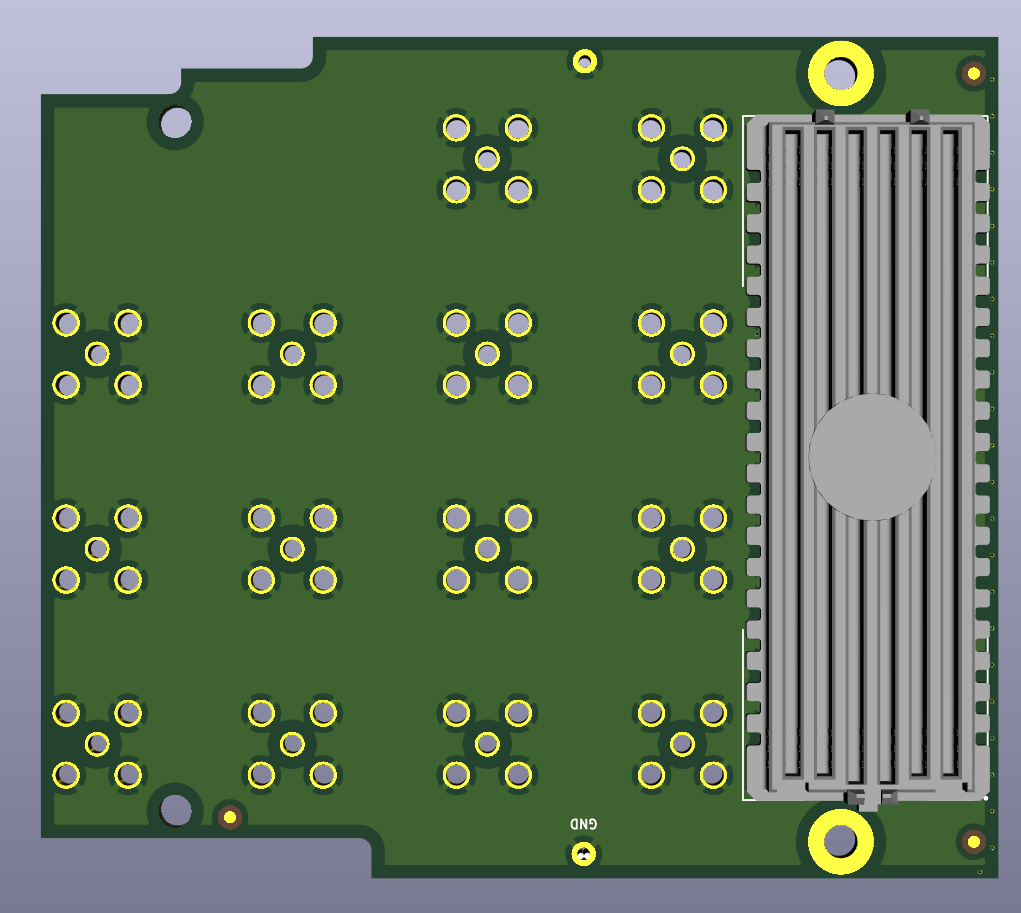
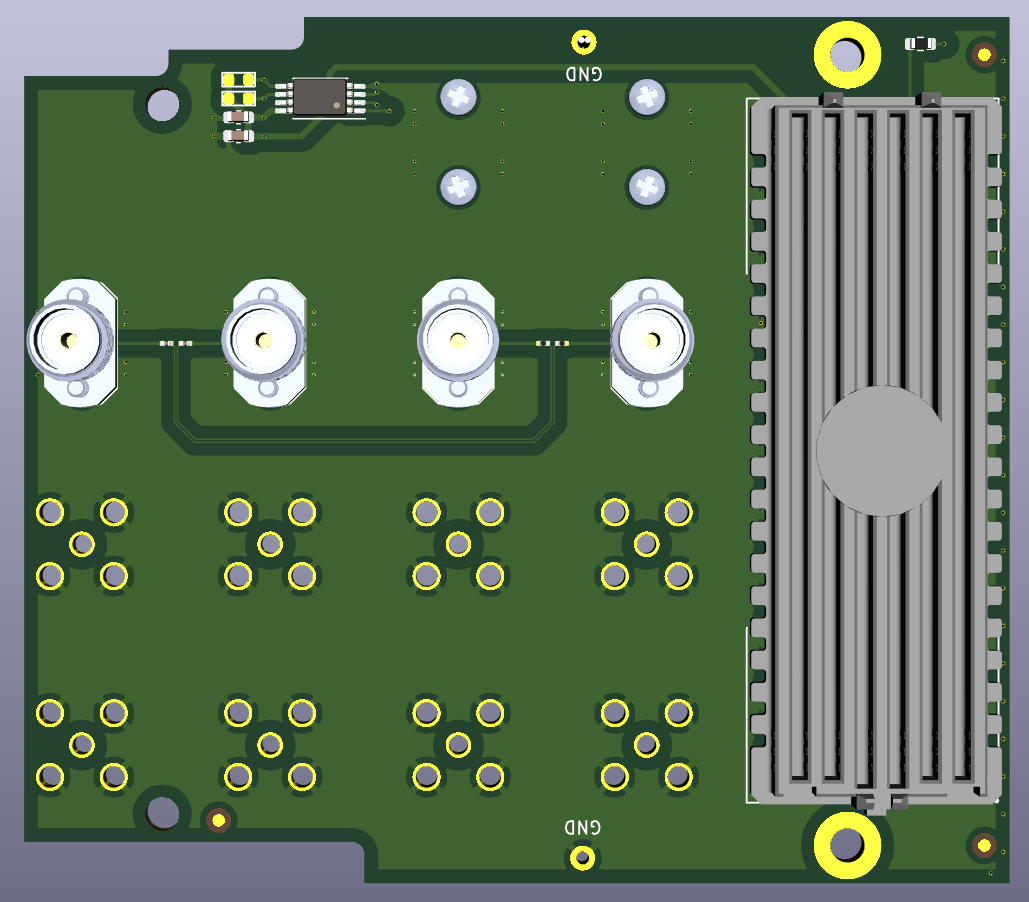
images

diff --git a/README.md b/README.md
@@ -1,4 +1,4 @@
-# LEAP FMC+
+# FMC+ SMA
 
 ## Cloning the repository
 - Libraries used in the project are in this other [cern repository](https://gitlab.cern.ch/p2-xware/hardware/kicad-pcbs/kit-kicad-library) or [kit repository](https://git.scc.kit.edu/cms-tt/hardware/kicad-pcbs/kit-kicad-library) and need to be linked using an **Environment Variable** inside KiCad (Preferences -> Configure Paths... ->) right after opening the project
@@ -9,9 +9,12 @@
 
 ### Top
 
-![Top View 3D](/images/Top_3D.png)
+![Top View 3D](/images/top.png)
 
-![Bottom View 3D](/images/Bottom_3D.png)
+
+### Bottom
+
+![Bottom View 3D](/images/bot.png)
 
 
 
